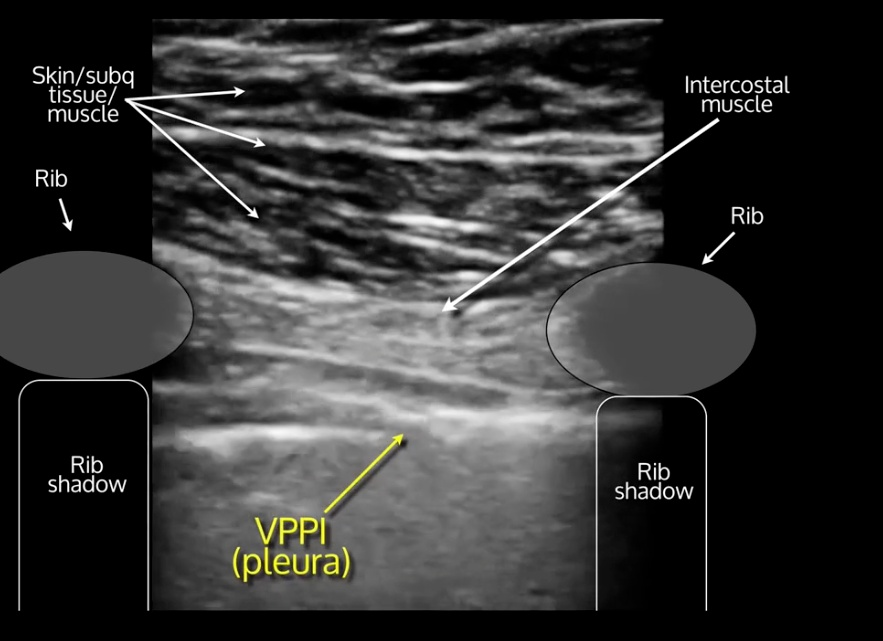
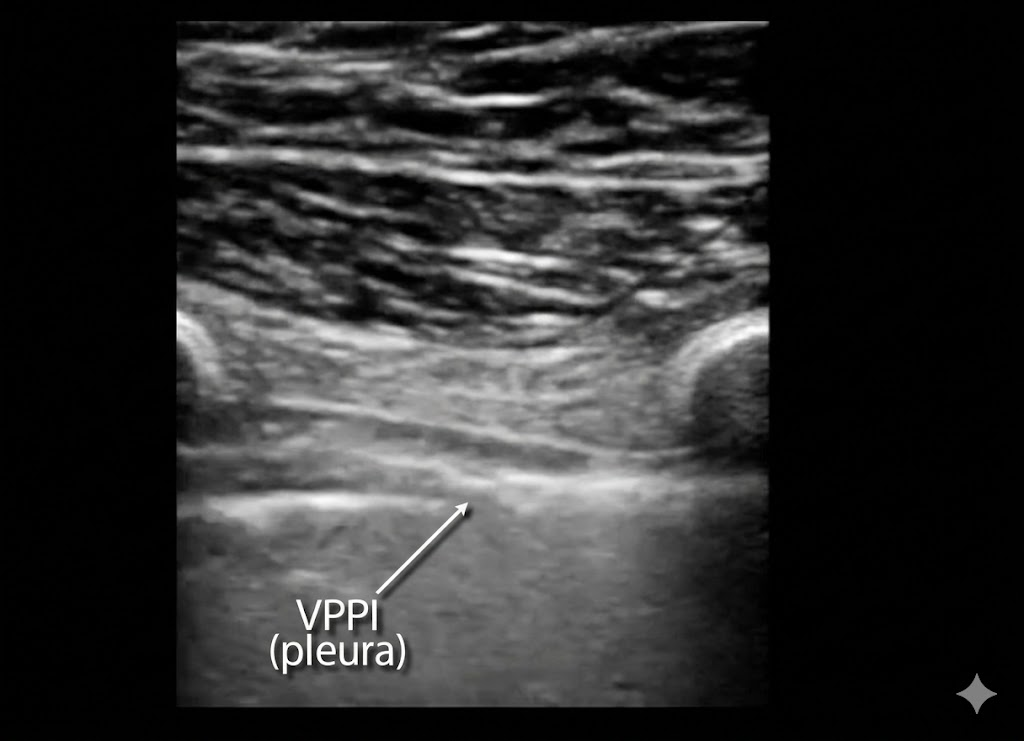
Replace US anatomy ultrasound image with cleaner VPPI-labeled version

diff --git a/docs/sw.js b/docs/sw.js
@@ -2,7 +2,7 @@
 // Network-first for code, cache-first for images
 // Ensures updates load immediately without manual cache clearing
 
-const CACHE_NAME = 'medkitt-v101';
+const CACHE_NAME = 'medkitt-v102';
 
 const ASSETS_TO_CACHE = [
   './',
